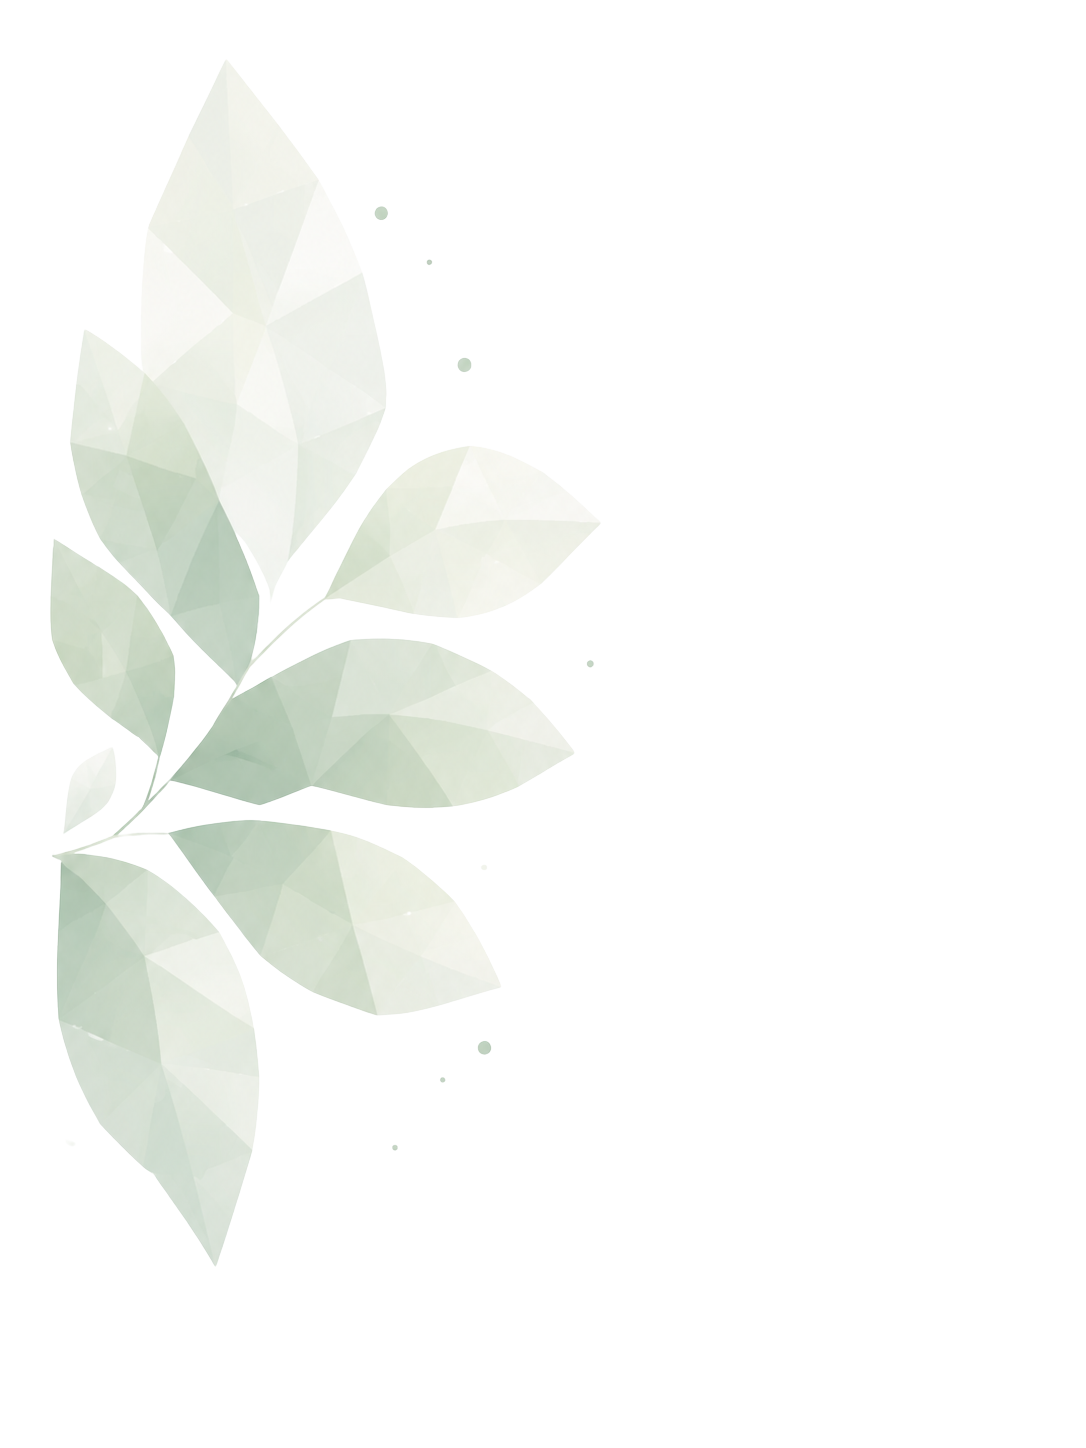
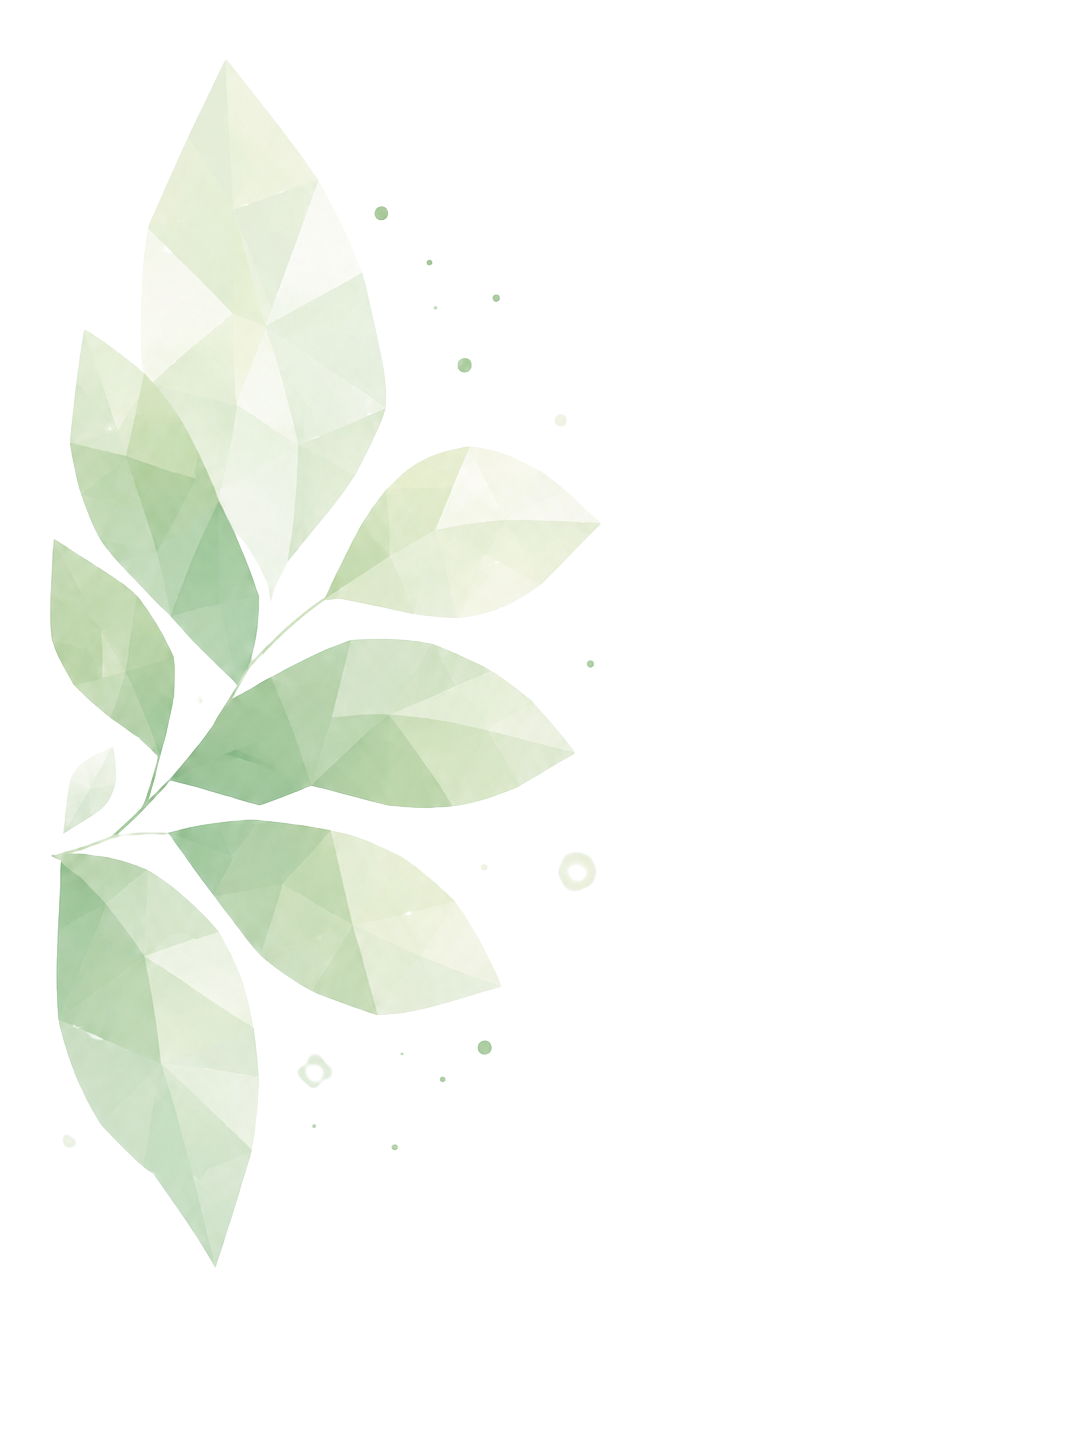
Polish auth screen visuals

diff --git a/src/screens/mesh/AuthScreens.tsx b/src/screens/mesh/AuthScreens.tsx
@@ -105,9 +105,17 @@ function messageFromError(error: unknown, fallback: string) {
   return error instanceof Error && error.message ? error.message : fallback;
 }
 
-function AuthShell({ children, showBack, onBack, scroll = true, dark = false, showLeafBg = true }: { children: ReactNode; showBack?: boolean; onBack?: () => void; scroll?: boolean; dark?: boolean; showLeafBg?: boolean }) {
+function AuthShell({ children, showBack, onBack, scroll = true, dark = false, showLeafBg = true, backgroundColor }: { children: ReactNode; showBack?: boolean; onBack?: () => void; scroll?: boolean; dark?: boolean; showLeafBg?: boolean; backgroundColor?: string }) {
   return (
-    <View style={{ flex: 1, backgroundColor: dark ? mesh.green700 : mesh.green50 }}>
+    <View style={{ flex: 1, backgroundColor: backgroundColor ?? (dark ? mesh.green700 : "#F7FBF6") }}>
+      {!dark ? (
+        <LinearGradient
+          pointerEvents="none"
+          colors={["#DDEFE5", "#F7FBF6", "#FFFFFF"]}
+          locations={[0, 0.54, 1]}
+          style={{ bottom: 0, left: 0, position: "absolute", right: 0, top: 0 }}
+        />
+      ) : null}
       {showLeafBg ? <LeafBg dark={dark} /> : null}
       {showBack ? <View style={{ position: "absolute", top: 48, left: 16, zIndex: 10 }}><HeaderCircleBtn icon="chevron-back" onPress={onBack} /></View> : null}
       {scroll ? (
@@ -181,9 +189,9 @@ function Divider({ t }: { t: TFn }) {
 function AuthTitle({ t, title, sub }: { t: TFn; title: string; sub: string }) {
   return (
     <View style={{ alignItems: "center", marginBottom: 28 }}>
-      <Image source={relishLogo} resizeMode="contain" style={{ height: 132, width: 132 }} />
-      <Text style={{ color: mesh.green800, fontSize: 28, fontWeight: "900", marginTop: 4 }}>{tx(t, title)}</Text>
-      <Text style={{ color: mesh.ink500, fontSize: 14, lineHeight: 21, marginTop: 6, textAlign: "center" }}>{tx(t, sub)}</Text>
+      <Image source={relishLogo} resizeMode="contain" style={{ height: 150, width: 150 }} />
+      <Text style={{ color: mesh.green800, fontSize: 27, fontWeight: "800", marginTop: 0 }}>{tx(t, title)}</Text>
+      <Text style={{ color: "rgba(31,42,38,0.58)", fontSize: 14, lineHeight: 21, marginTop: 6, textAlign: "center" }}>{tx(t, sub)}</Text>
     </View>
   );
 }
@@ -245,13 +253,13 @@ export function WelcomeScreen({ t, nav }: Props) {
   };
 
   return (
-    <AuthShell scroll={false} showLeafBg={false}>
+    <AuthShell scroll={false} showLeafBg={false} backgroundColor="#F7FBF6">
       <View style={{ flex: 1, justifyContent: "space-between", paddingTop: 10 }}>
         <LinearGradient
           pointerEvents="none"
-          colors={["#F4FAF6", "#F8FCF9", "#F4FAF6"]}
-          locations={[0, 0.5, 1]}
-          style={{ bottom: 0, left: -28, position: "absolute", right: -28, top: 0, zIndex: 0 }}
+          colors={["#c0e3ce", "#EAF6EF", "#FFFFFF"]}
+          locations={[0, 0.56, 1]}
+          style={{ bottom: -80, left: -28, position: "absolute", right: -28, top: -120, zIndex: 0 }}
         />
         <View style={{ flex: 1, zIndex: 1 }}>
           <View pointerEvents="none" style={{ bottom: 210, left: -45, position: "absolute", top: 80, width: 220, zIndex: 0 }}>
@@ -260,11 +268,9 @@ export function WelcomeScreen({ t, nav }: Props) {
           <View pointerEvents="none" style={{ bottom: 230, position: "absolute", right: 0, top: -70, width: 235, zIndex: 0 }}>
             <Image source={welcomeLeafRight} resizeMode="contain" style={{ height: 430, opacity: 1, width: 285 }} />
           </View>
-          <LinearGradient
+          <View
             pointerEvents="none"
-            colors={["rgba(255,255,255,0.70)", "rgba(255,255,255,0.42)", "rgba(255,255,255,0)"]}
-            locations={[0, 0.58, 1]}
-            style={{ height: 460, left: -28, position: "absolute", right: -28, top: -12, zIndex: 1 }}
+            style={{ backgroundColor: "rgba(255,255,255,0.48)", bottom: 0, left: -28, position: "absolute", right: -28, top: -120, zIndex: 1 }}
           />
           <View pointerEvents="none" style={{ backgroundColor: "rgba(31,112,72,0.16)", borderRadius: 3, height: 6, left: 28, position: "absolute", top: 146, width: 6, zIndex: 1 }} />
           <View pointerEvents="none" style={{ backgroundColor: "rgba(31,112,72,0.12)", borderRadius: 2, height: 4, left: 92, position: "absolute", top: 112, width: 4, zIndex: 1 }} />
@@ -297,9 +303,9 @@ export function WelcomeScreen({ t, nav }: Props) {
                   style={{ alignItems: "center", left: 0, opacity: slideOpacity, paddingTop: 58, position: "absolute", right: 0, top: 0, transform: [{ translateY: slideY }], zIndex: 1 }}
                 >
                   <View style={{ alignItems: "center", height: 230, justifyContent: "center", width: 230 }}>
-                    <View style={{ borderColor: "rgba(6,69,50,0.10)", borderRadius: 135, borderWidth: 1, height: 270, position: "absolute", width: 270 }} />
-                    <View style={{ borderColor: "rgba(6,69,50,0.065)", borderRadius: 155, borderWidth: 1, height: 310, position: "absolute", width: 310 }} />
-                    <View style={{ borderColor: "rgba(6,69,50,0.035)", borderRadius: 175, borderWidth: 1, height: 350, position: "absolute", width: 350 }} />
+                    <View style={{ borderColor: "rgba(6,69,50,0.10)", borderRadius: 99, borderWidth: 1, height: 198, position: "absolute", width: 198 }} />
+                    <View style={{ borderColor: "rgba(6,69,50,0.062)", borderRadius: 123, borderWidth: 1, height: 246, position: "absolute", width: 246 }} />
+                    <View style={{ borderColor: "rgba(6,69,50,0.032)", borderRadius: 147, borderWidth: 1, height: 294, position: "absolute", width: 294 }} />
                     <Image source={slide.image} resizeMode="contain" style={{ width: 230, height: 230 }} />
                   </View>
                   <Text style={{ color: mesh.green800, fontSize: 29, fontWeight: "700", lineHeight: 38, marginTop: 38, textAlign: "center", maxWidth: 330, letterSpacing: -0.2 }}>{slide.title}</Text>